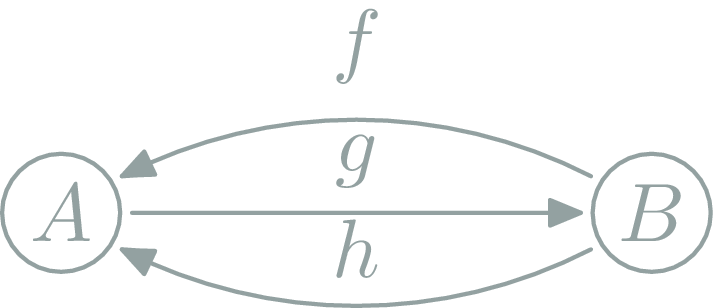
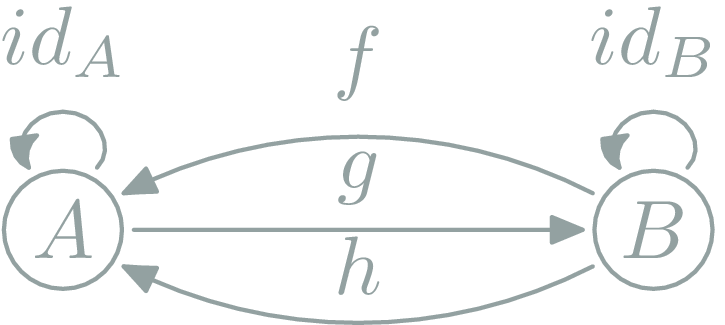
updating content

diff --git a/categories.html b/categories.html
@@ -221,9 +221,9 @@
 </ul>
 </section>
 <section class="slide">
-<h2>Category Definition</h2>
+<h2>Category</h2>
 
-<p>A way of representing <em>things</em> and <em>ways to go between things</em>.</p>
+<p>A way of representing <strong><em>things</em></strong> and <strong><em>ways to go between things</em></strong>.</p>
 
 <p> A Category \(\mathcal{C}\) is defined by:</p>
 <ul>
@@ -234,21 +234,21 @@
 </ul>
 </section>
 <section class="slide">
-<h2>Category Definition: Objects</h2>
+<h2>Category: Objects</h2>
 
 <img src="categories/img/mp/objects.png" alt="objects" />
 
 <p>\(\ob{\mathcal{C}}\) is a collection</p>
 </section>
 <section class="slide">
-<h2>Category Definition: Morphisms</h2>
+<h2>Category: Morphisms</h2>
 
 <img src="categories/img/mp/morphisms.png" alt="morphisms"/>
 
 <p>\(\hom{A,B}\) is a collection</p>
 </section>
 <section class="slide">
-<h2>Category Definition: Composition</h2>
+<h2>Category: Composition</h2>
 <p>Composition (∘): \(f:A\rightarrow B, g:B\rightarrow C\)
     $$g\circ f:A\rightarrow C$$
 </p>
@@ -290,14 +290,14 @@
 <figure class="left">
     <img src="categories/img/mp/cat-example1.png" alt="Category example 1"/>
     <figcaption class="slide">
-        <span class="green">OK</span>
+        <span class="green">YES</span>
     </figcaption>
 </figure>
 <figure class="left">
     <img src="categories/img/mp/cat-example2.png" alt="Category example 2"/>
     <figcaption class="slide">
         no candidate for \(g\circ f\)
-        <span class="red">NO</span>
+        <br/><span class="red">NO</span>
     </figcaption>
 </figure>
 <figure class="left">
@@ -306,18 +306,23 @@
     <span class="green">YES</span>
     </figcaption>
 </figure>
+</section>
+<section class="slide">
+<h2>Can this be a category? <span style="font-size: .5em">(\(\id_X\) explicit)</span></h2>
 <figure class="left">
     <img src="categories/img/mp/cat-example4.png" alt="Category example 4"/>
     <figcaption class="slide">
         no candidate for \(f:C\to B\)
-        <span class="red">NO</span>
+        <br/><span class="red">NO</span>
     </figcaption>
 </figure>
-<figure class="left">
+<figure class="right" style="min-width: 59%">
     <img src="categories/img/mp/cat-example5.png" alt="Category example 5"/>
     <figcaption class="slide">
-        \((h∘g)∘f=\id_B∘f=f≠h=h∘\id_A=h∘(g∘f)\)
-        <span class="red">NO</span>
+    \((h∘g)∘f=\id_B∘f=f\)<br/>
+    \(h∘(g∘f)=h∘\id_A=h\)<br/>
+    but \(h \neq f\)<br/>
+    <span class="red">NO</span>
     </figcaption>
 </figure>
 </section>
@@ -374,13 +379,42 @@
 </ul>
 </section>
 <section class="slide">
+<h2>Degenerated Categories</h2>
+
+<img class="right" src="categories/img/mp/monoid.png" alt="Monoids are one object categories"/>
+<h3>Monoids</h3>
+<p>each Monoid \((M,e,◎): \ob{M}=\{∙\},\hom{M}=M,\circ = ◎\)</p>
+<p>one object</p>
+</section>
+<section class="slide">
 <h2>Number construction</h2>
 
 <h3>Each Numbers as a whole category</h3>
 <img src="categories/img/mp/numbers.png" alt="Each number as a category"/>
 </section>
 <section class="slide">
-<h2>Definition: Functor</h2>
+<h2>Degenerated Categories</h2>
+
+<h3>Preorders</h3>
+<p>each preorder \((P,≤): \ob{P}={P},\hom{x,y}=\{f_{x,y}\} ⇔ x≤y,f_{y,z} \circ f_{x,y} = f_{x,z} \)</p>
+<em>At most one morphism between two objects.</em>
+<img src="categories/img/mp/preorder.png" alt="preorder category"/>
+</section>
+<section class="slide">
+<h2>Degenerated Categories</h2>
+
+<img class="right" src="categories/img/mp/set.png" alt="Any set can be a category"/>
+<h3>Any Set</h3>
+<p>Any set \(E: \ob{E}=E, \hom{x,y}=\{x\} ⇔  x=y \)</p>
+<p><em>Only identities ; not so interesting</em></p>
+</section>
+<section class="slide">
+<h2>Functor: Example</h2>
+
+<img src="categories/img/mp/functor.png" alt="Functor"/>
+</section>
+<section class="slide">
+<h2>Functor</h2>
 
 <p> A functor is a mapping between two categories.
 Let \(\C\) and \(\D\) be two categories.
@@ -395,11 +429,6 @@ A <em>functor</em> \(\F\) from \(\C\) to \(\D\):</p>
         </ul>
     </li>
 </ul>
-</section>
-<section class="slide">
-<h2>Functor: Example</h2>
-
-<img src="categories/img/mp/functor.png" alt="Functor"/>
 </section>
 <section class="slide">
 <h2>Functor: Example</h2>

diff --git a/categories/20_What/090_Can_this_be_a_category_id_X_implicit.html b/categories/20_What/090_Can_this_be_a_category_id_X_implicit.html
@@ -2,33 +2,19 @@
 <figure class="left">
     <img src="categories/img/mp/cat-example1.png" alt="Category example 1"/>
     <figcaption class="slide">
-        <span class="green">OK</span>
+        <span class="green">YES</span>
     </figcaption>
 </figure>
 <figure class="left">
     <img src="categories/img/mp/cat-example2.png" alt="Category example 2"/>
     <figcaption class="slide">
         no candidate for \(g\circ f\)
-        <span class="red">NO</span>
+        <br/><span class="red">NO</span>
     </figcaption>
 </figure>
 <figure class="left">
     <img src="categories/img/mp/cat-example3.png" alt="Category example 3"/>
     <figcaption class="slide">
     <span class="green">YES</span>
-    </figcaption>
-</figure>
-<figure class="left">
-    <img src="categories/img/mp/cat-example4.png" alt="Category example 4"/>
-    <figcaption class="slide">
-        no candidate for \(f:C\to B\)
-        <span class="red">NO</span>
-    </figcaption>
-</figure>
-<figure class="left">
-    <img src="categories/img/mp/cat-example5.png" alt="Category example 5"/>
-    <figcaption class="slide">
-        \((h∘g)∘f=\id_B∘f=f≠h=h∘\id_A=h∘(g∘f)\)
-        <span class="red">NO</span>
     </figcaption>
 </figure>

diff --git a/categories/20_What/110_Categories_Everywhere.html b/categories/20_What/110_Categories_Everywhere.html
@@ -1,10 +1,14 @@
 <h2>Categories Everywhere?</h2>
 
+<h3>\(\Set\)</h3>
 <ul>
-    <li>\(\mathbf{Mon}: (monoids, monoid morphisms,\circ) \)</li>
-    <li>\(\mathbf{Vec}: (Vectorial spaces, linear functions,\circ) \)</li>
-    <li>\(\mathbf{Grp}: (groups, group morphisms,\circ) \)</li>
-    <li>\(\mathbf{Rng}: (rings, ring morphisms,\circ) \)</li>
-    <li>\(\mathbf{ML}: (types, terms, λg. λf. λx. g f x) \)</li>
-    <li>...</li>
+    <li> \(\ob{\Set}\) are sets</li>
+    <li> \(\hom{\Set}\) are functions</li>
+    <li> ∘ is functions composition </li>
+</ul>
+
+<ul class="slide">
+    <li>\(\ob{\Set}\) is a proper class ; not a set</li>
+    <li>\(\hom{E,F}\) is a set</li>
+    <li>\(\Set\) is a <em>locally small category</em></li>
 </ul>

diff --git a/themes/style/y/main.css b/themes/style/y/main.css
@@ -486,9 +486,8 @@
     text-align: center;
     margin: 0.5em 0;
     font-size: 0.7em; }
-  .deck-container figure.left {
-    max-width: 30%;
-    float: left; }
+  .deck-container figure.left, .deck-container figure.right {
+    max-width: 30%; }
   .deck-container img.clean {
     border: none;
     background-color: none;
@@ -584,10 +583,13 @@
   .deck-container ul.long li {
     margin-bottom: 1em; }
   .deck-container img.left {
-    float: left;
-    max-width: 20%;
+    max-width: 30%;
     margin-top: 0.6em;
     margin-right: 1em; }
+  .deck-container img.right {
+    max-width: 30%;
+    margin-top: 0.6em;
+    margin-left: 1em; }
   .deck-container img.inside {
     display: inline;
     vertical-align: middle; }

diff --git a/categories/20_What/100_Can_this_be_a_category_id_X_implicit.html b/categories/20_What/100_Can_this_be_a_category_id_X_implicit.html
@@ -1,0 +1,17 @@
+<h2>Can this be a category? <span style="font-size: .5em">(\(\id_X\) explicit)</span></h2>
+<figure class="left">
+    <img src="categories/img/mp/cat-example4.png" alt="Category example 4"/>
+    <figcaption class="slide">
+        no candidate for \(f:C\to B\)
+        <br/><span class="red">NO</span>
+    </figcaption>
+</figure>
+<figure class="right" style="min-width: 59%">
+    <img src="categories/img/mp/cat-example5.png" alt="Category example 5"/>
+    <figcaption class="slide">
+    \((h∘g)∘f=\id_B∘f=f\)<br/>
+    \(h∘(g∘f)=h∘\id_A=h\)<br/>
+    but \(h \neq f\)<br/>
+    <span class="red">NO</span>
+    </figcaption>
+</figure>

diff --git a/themes/style/y/main.sass b/themes/style/y/main.sass
@@ -632,9 +632,8 @@ $secondTextColor: $base1
       text-align: center
       margin: .5em 0
       font-size: .7em
-  figure.left
+  figure.left,figure.right
     max-width: 30%
-    float: left
 
   img.clean
     border: none
@@ -748,11 +747,16 @@ $secondTextColor: $base1
     margin-bottom: 1em
 
   img.left
-    float: left
-    max-width: 20%
+    max-width: 30%
     margin:
       top: .6em
       right: 1em
+
+  img.right
+    max-width: 30%
+    margin:
+      top: .6em
+      left: 1em
 
   img.inside
     display: inline

diff --git a/categories/20_What/120_Categories_Everywhere.html b/categories/20_What/120_Categories_Everywhere.html
@@ -1,0 +1,10 @@
+<h2>Categories Everywhere?</h2>
+
+<ul>
+    <li>\(\mathbf{Mon}: (monoids, monoid morphisms,\circ) \)</li>
+    <li>\(\mathbf{Vec}: (Vectorial spaces, linear functions,\circ) \)</li>
+    <li>\(\mathbf{Grp}: (groups, group morphisms,\circ) \)</li>
+    <li>\(\mathbf{Rng}: (rings, ring morphisms,\circ) \)</li>
+    <li>\(\mathbf{ML}: (types, terms, λg. λf. λx. g f x) \)</li>
+    <li>...</li>
+</ul>

diff --git a/categories/20_What/020_Category.html b/categories/20_What/020_Category.html
@@ -1,6 +1,6 @@
-<h2>Category Definition</h2>
+<h2>Category</h2>
 
-<p>A way of representing <em>things</em> and <em>ways to go between things</em>.</p>
+<p>A way of representing <strong><em>things</em></strong> and <strong><em>ways to go between things</em></strong>.</p>
 
 <p> A Category \(\mathcal{C}\) is defined by:</p>
 <ul>

diff --git a/categories/20_What/170_Degenerated_Categories.html b/categories/20_What/170_Degenerated_Categories.html
@@ -1,0 +1,6 @@
+<h2>Degenerated Categories</h2>
+
+<h3>Preorders</h3>
+<p>each preorder \((P,≤): \ob{P}={P},\hom{x,y}=\{f_{x,y}\} ⇔ x≤y,f_{y,z} \circ f_{x,y} = f_{x,z} \)</p>
+<em>At most one morphism between two objects.</em>
+<img src="categories/img/mp/preorder.png" alt="preorder category"/>

diff --git a/categories/20_What/180_Degenerated_Categories.html b/categories/20_What/180_Degenerated_Categories.html
@@ -1,0 +1,6 @@
+<h2>Degenerated Categories</h2>
+
+<img class="right" src="categories/img/mp/set.png" alt="Any set can be a category"/>
+<h3>Any Set</h3>
+<p>Any set \(E: \ob{E}=E, \hom{x,y}=\{x\} ⇔  x=y \)</p>
+<p><em>Only identities ; not so interesting</em></p>

diff --git a/categories/20_What/150_Degenerated_Categories.html b/categories/20_What/150_Degenerated_Categories.html
@@ -1,0 +1,6 @@
+<h2>Degenerated Categories</h2>
+
+<img class="right" src="categories/img/mp/monoid.png" alt="Monoids are one object categories"/>
+<h3>Monoids</h3>
+<p>each Monoid \((M,e,◎): \ob{M}=\{∙\},\hom{M}=M,\circ = ◎\)</p>
+<p>one object</p>

diff --git a/categories/20_What/050_Category_Composition.html b/categories/20_What/050_Category_Composition.html
@@ -1,4 +1,4 @@
-<h2>Category Definition: Composition</h2>
+<h2>Category: Composition</h2>
 <p>Composition (∘): \(f:A\rightarrow B, g:B\rightarrow C\)
     $$g\circ f:A\rightarrow C$$
 </p>
